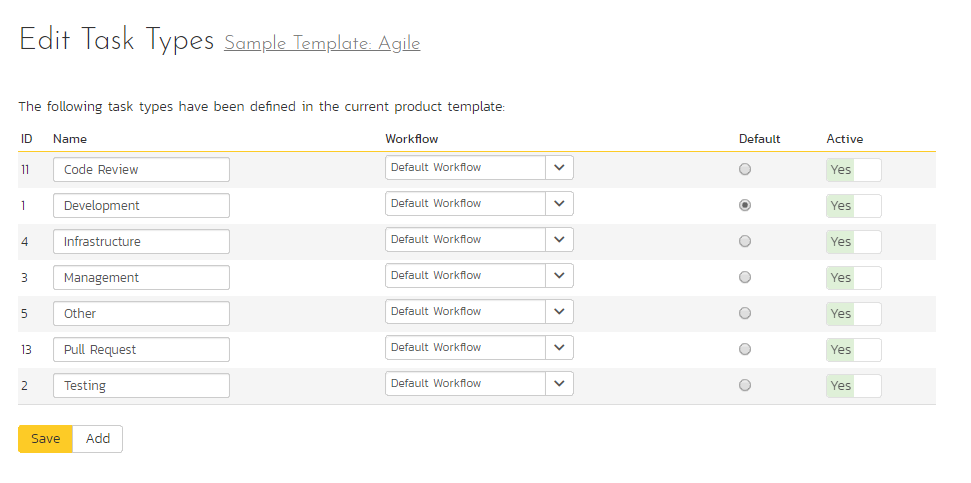
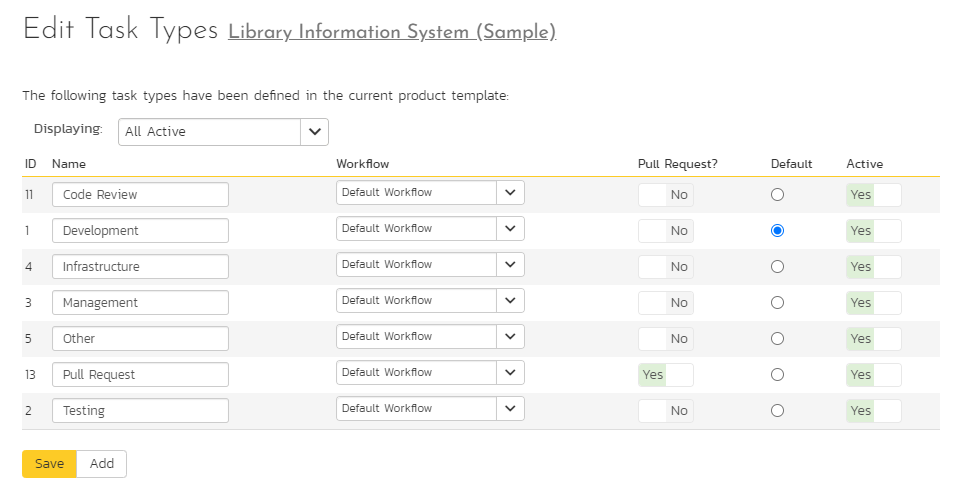
adds pull request documentation

diff --git a/docs/Spira-Administration-Guide/Template-Tasks.md b/docs/Spira-Administration-Guide/Template-Tasks.md
@@ -1,223 +1,114 @@
 # Template: Tasks
 
-This section contains administrative options that are specific to the
-task functionality in the system.
+This section contains administrative options that are specific to task functionality in the system.
+
 
 ## Priority
 
-The following screen is displayed when you choose the "Priority" link
-from the Tasks section of the administration menu:
+The following screen is displayed when you choose the "Priority" link from the Tasks section of the administration menu:
 
 ![](img/Template_Tasks_158.png)
 
+The screen displays a list of all the defined task priorities for the current template. By default, the screen will be populated with the standard SpiraPlan® task priorities. To edit an existing task priority, change the name, color, score (this is used for ranking the different items -- the item with the lowest score will appear at the top of dropdown lists in the application), and/or change the active flag then click "Save".
 
+Note that you can either enter the hexadecimal RRGGBB code for the color or use the pop-up color picker.
 
+You can't delete an existing task priority, but to prevent it appearing in any drop-down-lists, change its active flag to "No" and click "Save". To add a new task priority, click the "Add" button and a new row will be added to the list which you can now edit.
 
-The screen displays a list of all the defined task priorities for the
-current template. By default, the screen will be populated with the
-standard SpiraPlan® task priorities. To edit an existing task priority,
-change the name, color, score (this is used for ranking the different
-items -- the item with the lowest score will appear at the top of
-dropdown lists in the application), and/or change the active flag then
-click "Save".
-
-Note that you can either enter the hexadecimal RRGGBB code for the color
-or use the pop-up color picker.
-
-You can't delete an existing task priority, but to prevent it appearing
-in any drop-down-lists, change its active flag to "No" and click "Save".
-To add a new task priority, click the "Add" button and a new row will be
-added to the list which you can now edit.
 
 ## Types
 
-The following screen is displayed when you choose the "Types" link from
-the Tasks section of the administration menu:
+When you choose the "Types" link from the Tasks section of the administration menu you will see the following page:
 
 ![](img/Template_Tasks_159.png)
 
+The page shows a list of all the defined task types for the current template. By default, the screen will be populated with the standard SpiraPlan® task types and only show the active types. To view inactive or all types, use the "Displaying" dropdown near the top.
 
+You can change the following information about each type:
 
+- **name**
+- **associated workflow**: the drop-down list lets you to select which workflow each type will follow. This is very powerful because it lets you configure different workflows for different types.
+- **pull request**: you can set the pull request flag on any task type. That task type will be treated as a pull request in the application. You can, if you want, have all types or no types at all set to be pull requests. 
+- **default type**: the default radio button lets you pick which single type should be the default for newly created tasks. This is the type that a new task will be set to unless changed by the creator of the task. You cannot set an inactive type as the default.
+- **active flag**: you can't delete an existing task type. You can stop it showing in any drop-downs by setting its active flag to "No". You must have at least one active type.
 
-The screen displays a list of all the defined task types for the current
-template. By default, the screen will be populated with the standard
-SpiraPlan® task types. To edit an existing task type, change the name,
-associated workflow, set a default type, and/or change the active flag
-then click "Save".
+To add a new type, click the "Add" button and a new row will be added to the list for you to edit.
 
-You can't delete an existing task type, but to prevent it appearing in
-any drop-down-lists, change its active flag to "No" and click "Save". To
-add a new type, click the "Add" button and a new row will be added to
-the list which you can now edit.
+Once you have made any changes you need to make, click **"Save"**.
 
-The associated workflow drop-down list allows you to specify which
-workflow the type will follow. This is a very powerful feature since it
-allows you to configure different workflows for different types.
-
-The default radio button allows you to specify which type should be the
-default for newly created tasks. This is the type that a new task will
-be set to unless changed by the creator of the task. Note that you must
-have at least one active type, and you cannot set an inactive type as
-the default.
 
 ## Task Workflows
 
-Clicking on the "Task Workflows" link under the Planning heading, brings
-up the list of defined task workflows for the current template. A
-workflow is a predefined sequence of task statuses linked together by
-"workflow transitions" to enable a newly created task to be reviewed,
-prioritized, assigned, developed and tested, as well as to handle
-exception cases such as the case of a blocked or deferred task. The
-workflow list screen for the sample template is illustrated below:
+Clicking on the "Task Workflows" link under the Planning heading, brings up the list of defined task workflows for the current template. A workflow is a predefined sequence of task statuses linked together by "workflow transitions" to enable a newly created task to be reviewed, prioritized, assigned, developed and tested, as well as to handle exception cases such as the case of a blocked or deferred task. The workflow list screen for the sample template is illustrated below:
 
 ![](img/Template_Tasks_160.png)
 
+You can have as many workflows as you like in a template, but only one can be marked as the default. Each task type must be assigned to a workflow. To modify the name, default flag, and/or active flag of an existing workflow, change the values in the appropriate text-box, radio-button, or drop-down list and click the "Save" button. To add a new workflow, click the 'Add Workflow' link and a new workflow will be created with the standard SpiraPlan® steps and transitions.
 
+Note: You can only assign an active workflow to a task type, and similarly you cannot make a workflow inactive that is currently linked to a task type. This is important as all task types need to be linked to an active workflow at all times.
 
-
-You can have as many workflows as you like in a template, but only one
-can be marked as the default. Each task type must be assigned to a
-workflow. To modify the name, default flag, and/or active flag of an
-existing workflow, change the values in the appropriate text-box,
-radio-button, or drop-down list and click the "Save" button. To add a
-new workflow, click the 'Add Workflow' link and a new workflow will be
-created with the standard SpiraPlan® steps and transitions.
-
-Note: You can only assign an active workflow to a task type, and
-similarly you cannot make a workflow inactive that is currently linked
-to a task type. This is important as all task types need to be linked to
-an active workflow at all times.
 
 ### Edit Workflow Details
 
-Clicking on the 'Steps' hyperlink of a workflow brings up the following
-screen that lists all the workflow steps and workflow transitions that
-comprise the workflow:
+Clicking on the 'Steps' hyperlink of a workflow brings up the following screen that lists all the workflow steps and workflow transitions that comprise the workflow:
 
 ![](img/Template_Tasks_161.png)
 
+This page lists in the left-most column all the various task statuses defined in the system. The next column lists all the possible transitions that can occur *from that status*. In addition, with each transition is listed the name of the resulting *destination status* that the transition leads to. E.g. from the Not Started status, depending on your role (see later) the user can move the task to either Deferred or In Progress, depending on which transition the user takes.
 
+Clicking on the name of a step or transition takes you to the appropriate details page (see below) where you can set the properties of the step or transition respectively. To delete an existing transition, click the 'x button after the transition name, and to add a new transition, click the 'Add Transition' button in the Operations column.
 
-
-This page lists in the left-most column all the various task statuses
-defined in the system. The next column lists all the possible
-transitions that can occur *from that status*. In addition, with each
-transition is listed the name of the resulting *destination status* that
-the transition leads to. E.g. from the Not Started status, depending on
-your role (see later) the user can move the task to either Deferred or
-In Progress, depending on which transition the user takes.
-
-Clicking on the name of a step or transition takes you to the
-appropriate details page (see below) where you can set the properties of
-the step or transition respectively. To delete an existing transition,
-click the 'x button after the transition name, and to add a new
-transition, click the 'Add Transition' button in the Operations column.
 
 ### Edit Workflow Transition
 
-When you click on the transition name link from the previous screen, you
-are taken to the workflow transition details screen:
+When you click on the transition name link from the previous screen, you are taken to the workflow transition details screen:
 
 ![](img/Template_Tasks_162.png)
 
+The top part of the screen is the "workflow browser" which illustrates how the transition relates to the workflow as a whole. It displays the current transition in the middle, with the originating and destination steps listed to either side. Clicking on either task status name will take you to the appropriate workflow step details page. This allows you to click through the whole workflow from start to finish without having to return to the workflow details page.
 
+This part of the screen lets you change the name of the transition. If a digital signature from the user is required to authorize and record the transition, set the toggle to yes for "Require Electronic Signature".
 
-
-The top part of the screen is the "workflow browser" which illustrates
-how the transition relates to the workflow as a whole. It displays the
-current transition in the middle, with the originating and destination
-steps listed to either side. Clicking on either task status name will
-take you to the appropriate workflow step details page. This allows you
-to click through the whole workflow from start to finish without having
-to return to the workflow details page.
-
-This part of the screen lets you change the name of the transition. If a
-digital signature from the user is required to authorize and record the
-transition, set the toggle to yes for "Require Electronic Signature".
-
-In addition, each transition has a series of conditions which need to be
-satisfied for a user to actually execute the transition (i.e. move the
-task from the originating status to the destination status):
+In addition, each transition has a series of conditions which need to be satisfied for a user to actually execute the transition (i.e. move the task from the originating status to the destination status):
 
 ![](img/Template_Tasks_163.png)
 
-
-
-
 The conditions section allows you to set three types of user role:
 
-The author of the task can be allowed to execute the transition. For
-example, when a task is marked as Completed, the author might be allowed
-to move it to In Progress if there is still work remaining.
+The author of the task can be allowed to execute the transition. For example, when a task is marked as Completed, the author might be allowed to move it to In Progress if there is still work remaining.
 
-The owner of the task can be allowed to execute the transition. For
-example, when a task is marked as In Progress, the assigned owner should
-be the only one who's allowed to move it to Competed.
+The owner of the task can be allowed to execute the transition. For example, when a task is marked as In Progress, the assigned owner should be the only one who's allowed to move it to Competed.
 
-A user with a specified role can be allowed to execute the transition
-regardless of whether they are the author or owner. For example a user
-with role "Manager" might want the power to defer all tasks regardless
-of ownership status.
+A user with a specified role can be allowed to execute the transition regardless of whether they are the author or owner. For example a user with role "Manager" might want the power to defer all tasks regardless of ownership status.
 
-> You can set any of these conditions by changing the drop-down list
-> and/or check-boxes and clicking the appropriate "Save" button.
+> You can set any of these conditions by changing the drop-down list > and/or check-boxes and clicking the appropriate "Save" button.
+
 
 ### Edit Workflow Step
 
-When you click on the task status name link from either of the previous
-screens, you are taken to the workflow step details screen:
+When you click on the task status name link from either of the previous screens, you are taken to the workflow step details screen:
 
 ![](img/Template_Tasks_164.png)
 
+The top part of the screen is the "workflow browser" which illustrates how the step relates to the workflow as a whole. It displays the current task status in the middle, with the possible originating and destination transitions listed to either side. Clicking on either workflow transition name will take you to the appropriate workflow transition details page. This allows you to click through the whole workflow from start to finish without having to return to the workflow details page.
 
-
-
-The top part of the screen is the "workflow browser" which illustrates
-how the step relates to the workflow as a whole. It displays the current
-task status in the middle, with the possible originating and destination
-transitions listed to either side. Clicking on either workflow
-transition name will take you to the appropriate workflow transition
-details page. This allows you to click through the whole workflow from
-start to finish without having to return to the workflow details page.
-
-This page allows you to define the behavior of the various task fields
-(i.e. those that are a standard part of SpiraPlan® such as Priority):
+This page allows you to define the behavior of the various task fields (i.e. those that are a standard part of SpiraPlan® such as Priority):
 
 ![](img/Template_Tasks_165.png)
 
-
-
-
-This page also allows you to define the behavior of the various task
-custom properties for this particular step in the workflow:
+This page also allows you to define the behavior of the various task custom properties for this particular step in the workflow:
 
 ![](img/Template_Tasks_166.png)
 
-
-
-
 You can set each of the fields/custom properties as being:
 
-**Hidden** -- The field / custom property will not be displayed when the
-task is in this status
+**Hidden** -- The field / custom property will not be displayed when the task is in this status
 
-**Disabled** -- The field / custom property will be displayed, but will
-be greyed-out and read-only
+**Disabled** -- The field / custom property will be displayed, but will be greyed-out and read-only
 
-**Required** -- The field / custom property will be required when the
-task is in this status
+**Required** -- The field / custom property will be required when the task is in this status
 
-Note that you cannot set a field/property as being required and either
-disabled or hidden since this would prevent a user from ever updating
-the task. For example, when a task is in the Not Started status, you
-might make the owner field hidden (since the author shouldn't need to
-know who will ultimately own it), when it gets to the In Progress
-status, you might make the field enabled and required, and when it gets
-to the Completed status, you might make it disabled. This allows you to
-tailor the information gathered to the appropriate place in the
-workflow.
+Note that you cannot set a field/property as being required and either disabled or hidden since this would prevent a user from ever updating the task. For example, when a task is in the Not Started status, you might make the owner field hidden (since the author shouldn't need to know who will ultimately own it), when it gets to the In Progress status, you might make the field enabled and required, and when it gets to the Completed status, you might make it disabled. This allows you to tailor the information gathered to the appropriate place in the workflow.
 
-To actually make these changes, all you need to do is select the
-appropriate checkboxes in the list of fields and custom properties and
-click the corresponding "Save" button.
+To actually make these changes, all you need to do is select the appropriate checkboxes in the list of fields and custom properties and click the corresponding "Save" button.
 

diff --git a/docs/Spira-User-Manual/Pull-Requests.md b/docs/Spira-User-Manual/Pull-Requests.md
@@ -1,12 +1,80 @@
 # Pull Requests
+Often, developers work on features or hotfixes in specific branches. Once development is complete, the code is ready to merged into the central branch (typically main, or development) ahead of release. Pull requests are a way to flag that the feature branch is ready for merging. A pull request lets the developer(s) of the feature ask colleagues to review the code, assess if changes are needed, and if everything looks good  approve the pull request / merge into the main branch.
+
+If your SpiraPlan product is connected to a [source code repository](../Source-Code), you will be able to use SpiraPlan's pull request functionality. This lets you create a pull request, select the branch you want reviewed, the branch the code will be pulled / merged into, and assign a team member to review the request. The reviewer can explore the code that was changed in the branch add comments or notes to the pull request, and move it through a workflow as needed. The requester can track any changes made to the pull request, so they can, as needed, make additional changes to their code.
+
+SpiraPlan's pull request feature leverages the [Task](../Task-Tracking) artifact. Tasks have different types. You can set any of these tasks types to be treated as a pull request task. Task types are managed via [template administration](../../Spira-Administration-Guide/Template-Tasks/#types). By default, templates have a task type called "Pull Request" which is flagged as being treated as a pull request. You can turn this off, or make other types also be treated as pull requests. If you have different workflows for different types of code (for instance a hotfix pull request may require a different workflow to a feature pull requests), it may make sense to have multiple task types being flagged as pull requests. You can then set each task type to use a different [task workflow](../../Spira-Administration-Guide/Template-Tasks/#task-workflows).
 
 ## Pull Request List
+To view the list of pull requests in a product, the following three conditions need to be met:
+
+- the product is connected to a [source code repository](../Source-Code) (if not there they can't be any source code branches to make pull requests from)
+- the product's template has at least one task type set to be a Pull Request (if not, you can't create or view pull requests because no task will be treated as one)
+- your role on the product lets you view tasks (because pull requests are a subset of tasks, if you can't see tasks, you can't see pull requests)
+
+Note: to carry out operations on pull requests (like create, delete, modify) you need those specific permissions for tasks.
 
 ### View Pull Requests
+When you click on Developing \> Pull Requests on the global navigation bar, you will be taken to the pull requests list screen. This shows you all pull requests in the product. You can sort and filter this list, or browse the different pages of pull requests (up to 500 pull requests can be displayed on the page at any one time).
+
+![List of pull requests](img/Pull_Requests_List.png)
+
+Above the list of pull requests is the action toolbar. This lets you perform the following functions:
+
+- Create a new pull request (see below)
+- Delete any selected pull requests
+- Refresh the list of to see any recent updates
+- Filter buttons to apply or clear the current filter
+
+The list of pull requests shows the following information about each pull request:
+
+- Name
+- Merge From
+- Merge To
+- Status
+- Owner
+- Release
+- Last updated date
+- ID
 
 ### Creating a Pull Request
+When you click the "New Pull Request" button you will see a popup dialog as below.
 
+![dialog for adding a new pull request](img/Pull_Requests_Add.png)
+
+This dialog has the following fields to fill in:
+
+- **Merge From** (required): pick the name of the branch that has the feature / hot fix code in it. You can select any branch
+- **Merge To** (required): pick the branch to merge the feature into. You can select any branch other than the "merge from" branch
+- **Name** (required): enter the name for the pull request. When you first click on the text box the value is automatically generated based off the merge from and to branches. You can edit this however you want to
+- **Release**: optionally select a release to link the pull request with. This is helpful so that the pull request can be tracked as one part of the other work for a sprint / release
+- **Owner**: optionally choose who should be the owner of the pull request. Normally this will be the person responsible for carrying out the code review
+
+Once the popup has been filled in click "Create" to add the pull request.
+
+### Pull Requests on the Task List
+Pull requests are a special type of task. Only tasks with a pull request type are shown on the pull request list page. On the main [task list](../Task-Tracking/#task-list) page you can see all tasks, including pull requests. Pull requests have the special pull request icon next to the name. You can filter and order tasks and this will affect pull requests as if they are normal tasks. On the main task list page you cannot show special pull requests fields (like Merge From and Merge To). You can also view pull requests on the task board.
+
+![List of tasks with pull requests](img/Pull_Requests_TaskList.png)
+
+If you can create a new task from the task list you can create a pull request. However, you will not be able to set the Merge From or Merge To fields. That can only be done on the pull requests list page. 
 
 ## Pull Request Details
+Clicking on a pull request from anywhere in the application will open its details page. Here you can see and edit all information about the pull request, transition it through the workflow, add comments and more. This functionality is described in more detail on the [task details](../Task-Tracking/#task-list) page.
+
+The pull request details page is different to the task details page in two specific ways:
+
+1. You will see read-only Merge From and Merge To fields. Note that if these are blank for your pull request, you will have to go to main pull request page to fill them in.
+2. There is a Commits tab (see below).
 
 ### Commits
+From the pull request's commits tab, you can see a list of all commits that were made on the Merge From branch that are not in the Merge To branch. This lets you easily see all the changes that the pull request is asking to bring into the Merge To branch.
+
+![Pull Request commits tab](img/Pull_Requests_Commits.png)
+
+For each commit you can see the following information (you can sort or filter on all of these):
+
+- Commit: the commit id. Click on this to view the details for this commit, and hover to see a tooltip with extra information
+- Commit Date: hover over the date to see a tooltip showing the date and time
+- Message: the commit message (any artifact tokens in the message are links: clicking them will open the relevant artifact details page)
+- Author: this is the person who made the commit

diff --git a/docs/About/release-notes-v6.md b/docs/About/release-notes-v6.md
@@ -2,7 +2,7 @@
 
 ## Version 6.7.1 (February 2020)
 !!! info "Summary"
-    **[Pull Requests](../../Spira-User-Manual/Pull-Requests/pull-request-list)**: The Developing menu in the global navigation now includes Pull Requests, where you can create and manage pull requests. For each [pull request](../../Spira-User-Manual/Pull-Requests/pull-request-details) you can see all of the relevant commits, their code changes, and discuss any code changes.
+    **[Pull Requests](../../Spira-User-Manual/Pull-Requests)**: The Developing menu in the global navigation now includes Pull Requests, where you can create and manage pull requests. For each [pull request](../../Spira-User-Manual/Pull-Requests/pull-request-details) you can see all of the relevant commits, their code changes, and discuss any code changes.
 
     **The [build details](../../Spira-User-Manual/Release-Management/build-details) page** has been overhauled to improve usability and bring the most important information to your fingertips. Key information is more clearly displayed at the top of the page and source code commits and artifact associations are more prominent.
 
@@ -14,10 +14,10 @@
 ??? success "New Features"
     * **Source Code**
 
-        - Add list page to display and create pull requests (tasks with a type that enables pull requests) [RQ:3005]
-        - Can create a new pull request on the Pull Request list page, specifying the source branch and the destination branch [RQ:3006]
+        - Add [Pull Request list page](../../Spira-User-Manual/Pull-Requests#pull-request-list) to display and create pull requests (tasks with a type that enables pull requests) [RQ:3005]
+        - Can create a new pull request on the [Pull Request list page](../../Spira-User-Manual/Pull-Requests#pull-request-list), specifying the source branch and the destination branch [RQ:3006]
         - Task pages shows pull request with different icon [RQ:3045]
-        - Pull Request Task detail page shows source code revisions [RQ:3046]
+        - [Pull Request task details page](../../Spira-User-Manual/Pull-Requests#pull-request-details) shows source code commits [RQ:3046]
 
     * **Enhanced history tracking**
 

diff --git a/docs/Spira-User-Manual/Commits.md b/docs/Spira-User-Manual/Commits.md
@@ -28,9 +28,9 @@ Above the list of commits is the action toolbar. This lets you perform the follo
 
 For each commit you can see the following information (you can sort or filter on all of these):
 
-- Name - click on this to view the details for this commit, and hover to see a tooltip with extra information
+- Commit - the commit name: click on this to view the details for this commit, and hover to see a tooltip with extra information
 - Commit Date - hover over the date to see a tooltip showing the date and time
-- Summary - the commit message (any artifact tokens in the summary are links: clicking them will open the relevant artifact details page)
+- Message - the commit message (any artifact tokens in the message are links: clicking them will open the relevant artifact details page)
 - Author - this is the person who made the commit
 
 [^old-scm]: Some older source code management systems (e.g. CVS, Visual SourceSafe) do not have the formal concept of branches, so the dropdown list will simply list the one main branch (usually called "Trunk").
@@ -49,7 +49,7 @@ The detailed information available at the top of the page is the:
 
 - currently selected branch
 - commit name
-- commit summary message (artifacts tokens are links that will open that artifact)
+- commit message (artifacts tokens are links that will open that artifact)
 - author of the commit
 - date and time the commit was made
 - associated build, if there is one (clicking on the build will open the [build details](../Release-Management/#build-details) page for that build)
